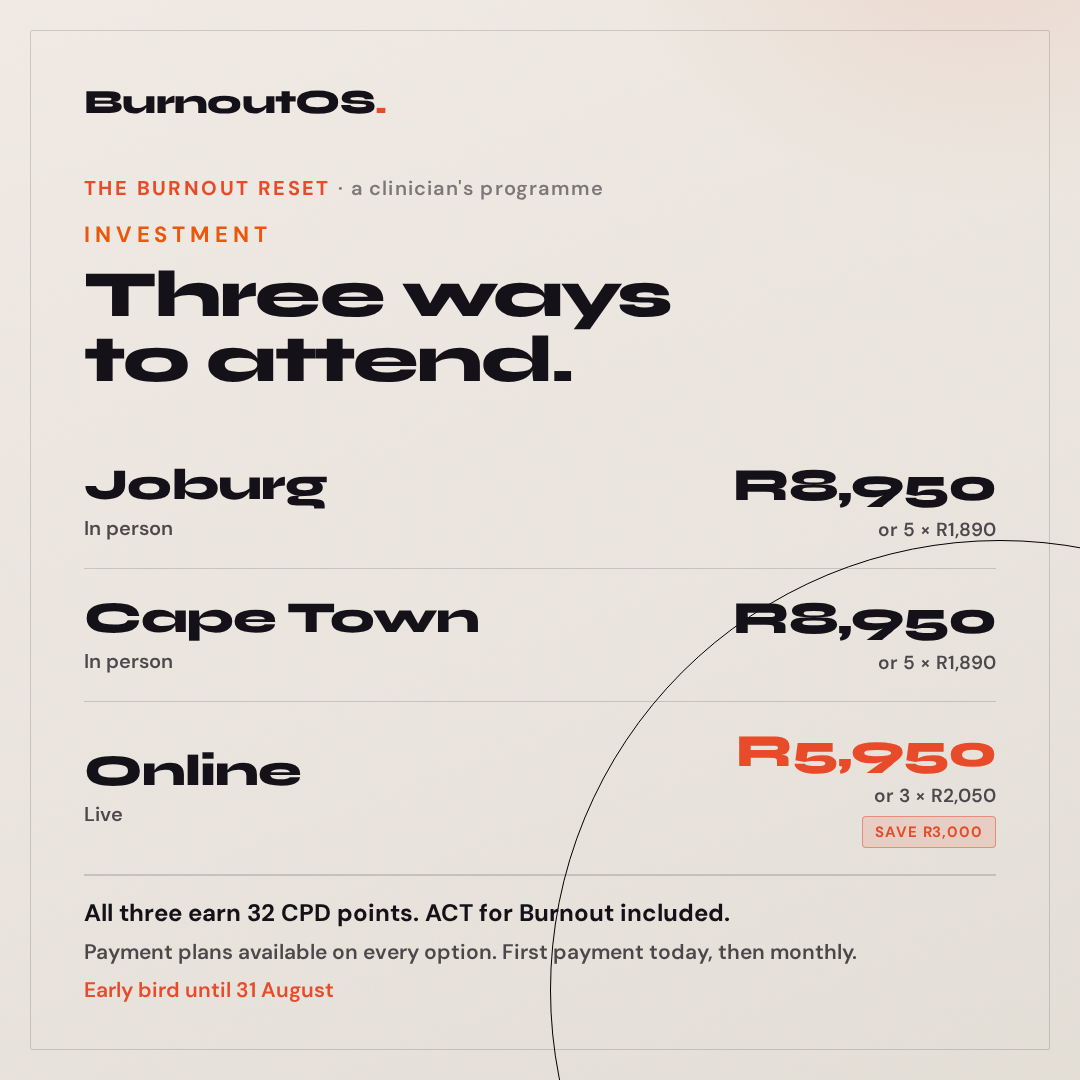
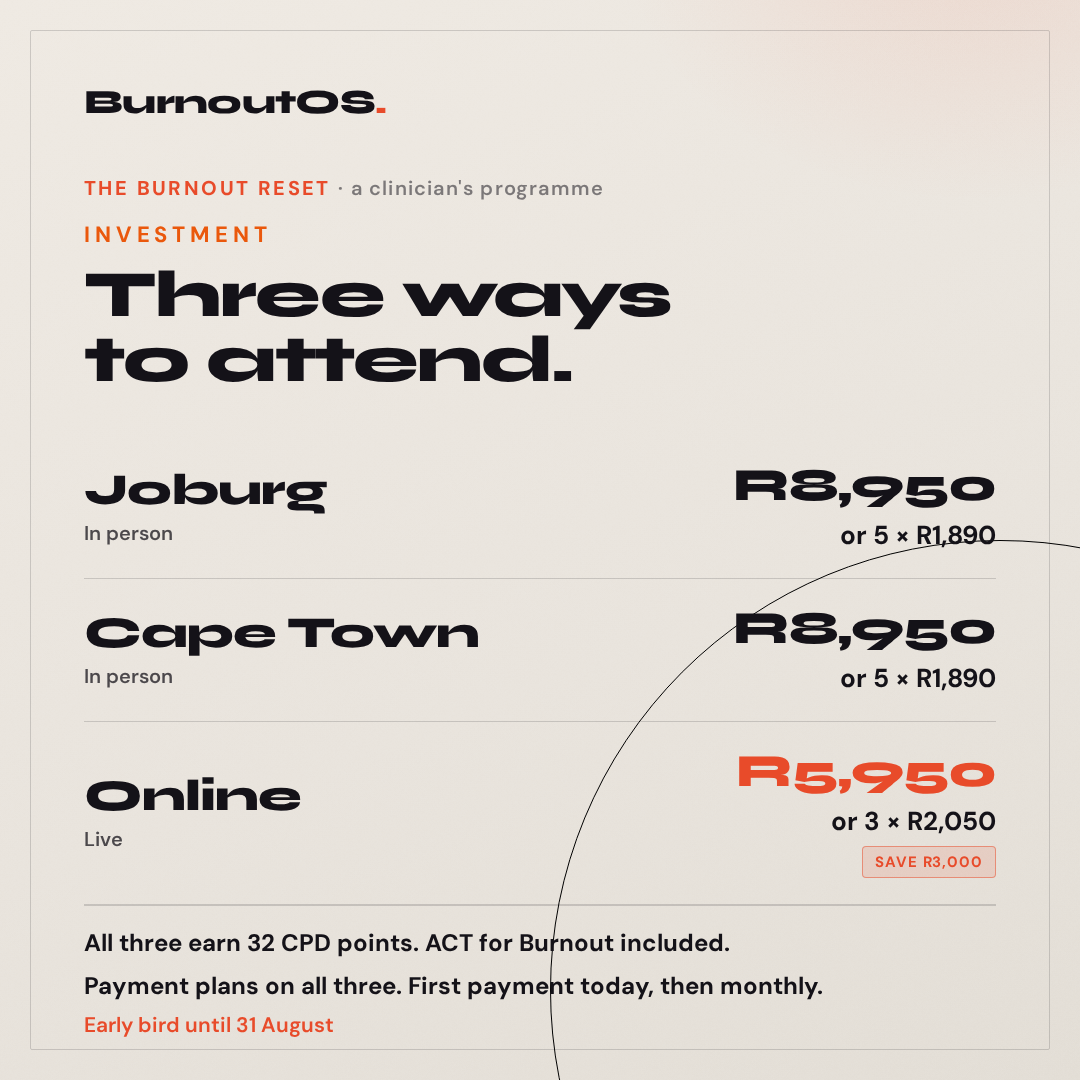
Make the payment plans visible on the investment card
The plan lines were 19px in muted grey, which read as a footnote to the
price rather than an alternative to it. Now 26px bold in ink, roughly
half the height of the price they sit under and at full contrast.

The foot line matches the CPD line at 24px bold, so the two things a
reader most needs from this card, what it earns and how it can be paid,
carry equal weight.

diff --git a/src/posters/sa-carousel-source.html b/src/posters/sa-carousel-source.html
@@ -242,27 +242,27 @@ body{background:#2a2a2a;}
         <div style="font-family:'Syne';font-weight:800;font-size:44px;letter-spacing:-0.025em;color:var(--fg);line-height:1">Joburg</div>
         <div style="font-family:'DM Sans';font-weight:600;font-size:20px;color:var(--fg-mut);margin-top:8px">In person</div>
       </div>
-      <div style="text-align:right"><div style="font-family:'Syne';font-weight:800;font-size:46px;letter-spacing:-0.02em;color:var(--fg);line-height:1">R8,950</div><div style="font-family:'DM Sans';font-weight:600;font-size:19px;color:var(--fg-mut);margin-top:9px">or 5 &times; R1,890</div></div>
+      <div style="text-align:right"><div style="font-family:'Syne';font-weight:800;font-size:46px;letter-spacing:-0.02em;color:var(--fg);line-height:1">R8,950</div><div style="font-family:'DM Sans';font-weight:700;font-size:26px;color:var(--fg);margin-top:10px">or 5 &times; R1,890</div></div>
     </div>
     <div style="display:flex;align-items:center;justify-content:space-between;padding:26px 0;border-bottom:1px solid var(--line)">
       <div>
         <div style="font-family:'Syne';font-weight:800;font-size:44px;letter-spacing:-0.025em;color:var(--fg);line-height:1">Cape Town</div>
         <div style="font-family:'DM Sans';font-weight:600;font-size:20px;color:var(--fg-mut);margin-top:8px">In person</div>
       </div>
-      <div style="text-align:right"><div style="font-family:'Syne';font-weight:800;font-size:46px;letter-spacing:-0.02em;color:var(--fg);line-height:1">R8,950</div><div style="font-family:'DM Sans';font-weight:600;font-size:19px;color:var(--fg-mut);margin-top:9px">or 5 &times; R1,890</div></div>
+      <div style="text-align:right"><div style="font-family:'Syne';font-weight:800;font-size:46px;letter-spacing:-0.02em;color:var(--fg);line-height:1">R8,950</div><div style="font-family:'DM Sans';font-weight:700;font-size:26px;color:var(--fg);margin-top:10px">or 5 &times; R1,890</div></div>
     </div>
     <div style="display:flex;align-items:center;justify-content:space-between;padding:26px 0;border-bottom:1px solid var(--line)">
       <div>
         <div style="font-family:'Syne';font-weight:800;font-size:44px;letter-spacing:-0.025em;color:var(--fg);line-height:1">Online</div>
         <div style="font-family:'DM Sans';font-weight:600;font-size:20px;color:var(--fg-mut);margin-top:8px">Live</div>
       </div>
-      <div style="text-align:right"><div style="font-family:'Syne';font-weight:800;font-size:46px;letter-spacing:-0.02em;color:var(--ember);line-height:1">R5,950</div><div style="font-family:'DM Sans';font-weight:600;font-size:19px;color:var(--fg-mut);margin-top:9px">or 3 &times; R2,050</div><div style="display:inline-flex;align-items:center;background:rgba(232,75,42,0.12);border:1.5px solid rgba(232,75,42,0.5);border-radius:4px;padding:5px 12px;margin-top:8px;font-family:'DM Sans';font-weight:700;font-size:15px;letter-spacing:0.06em;text-transform:uppercase;color:var(--ember)">Save R3,000</div></div>
+      <div style="text-align:right"><div style="font-family:'Syne';font-weight:800;font-size:46px;letter-spacing:-0.02em;color:var(--ember);line-height:1">R5,950</div><div style="font-family:'DM Sans';font-weight:700;font-size:26px;color:var(--fg);margin-top:10px">or 3 &times; R2,050</div><div style="display:inline-flex;align-items:center;background:rgba(232,75,42,0.12);border:1.5px solid rgba(232,75,42,0.5);border-radius:4px;padding:5px 12px;margin-top:8px;font-family:'DM Sans';font-weight:700;font-size:15px;letter-spacing:0.06em;text-transform:uppercase;color:var(--ember)">Save R3,000</div></div>
     </div>
   </div>
   <div style="margin-top:auto;z-index:7">
     <div class="hair" style="margin-bottom:20px"></div>
     <div style="font-family:'DM Sans';font-weight:700;font-size:24px;color:var(--fg);line-height:1.4">All three earn 32 CPD points. ACT for Burnout included.</div>
-    <div style="font-family:'DM Sans';font-weight:600;font-size:21px;color:var(--fg-mut);margin-top:8px">Payment plans available on every option. First payment today, then monthly.</div><div style="font-family:'DM Sans';font-weight:600;font-size:21px;color:var(--ember);margin-top:10px">Early bird until 31 August</div>
+    <div style="font-family:'DM Sans';font-weight:700;font-size:24px;color:var(--fg);margin-top:10px">Payment plans on all three. First payment today, then monthly.</div><div style="font-family:'DM Sans';font-weight:600;font-size:21px;color:var(--ember);margin-top:10px">Early bird until 31 August</div>
   </div>
 </div>
 <div class="card t-ember bg-ember" id="c6">
